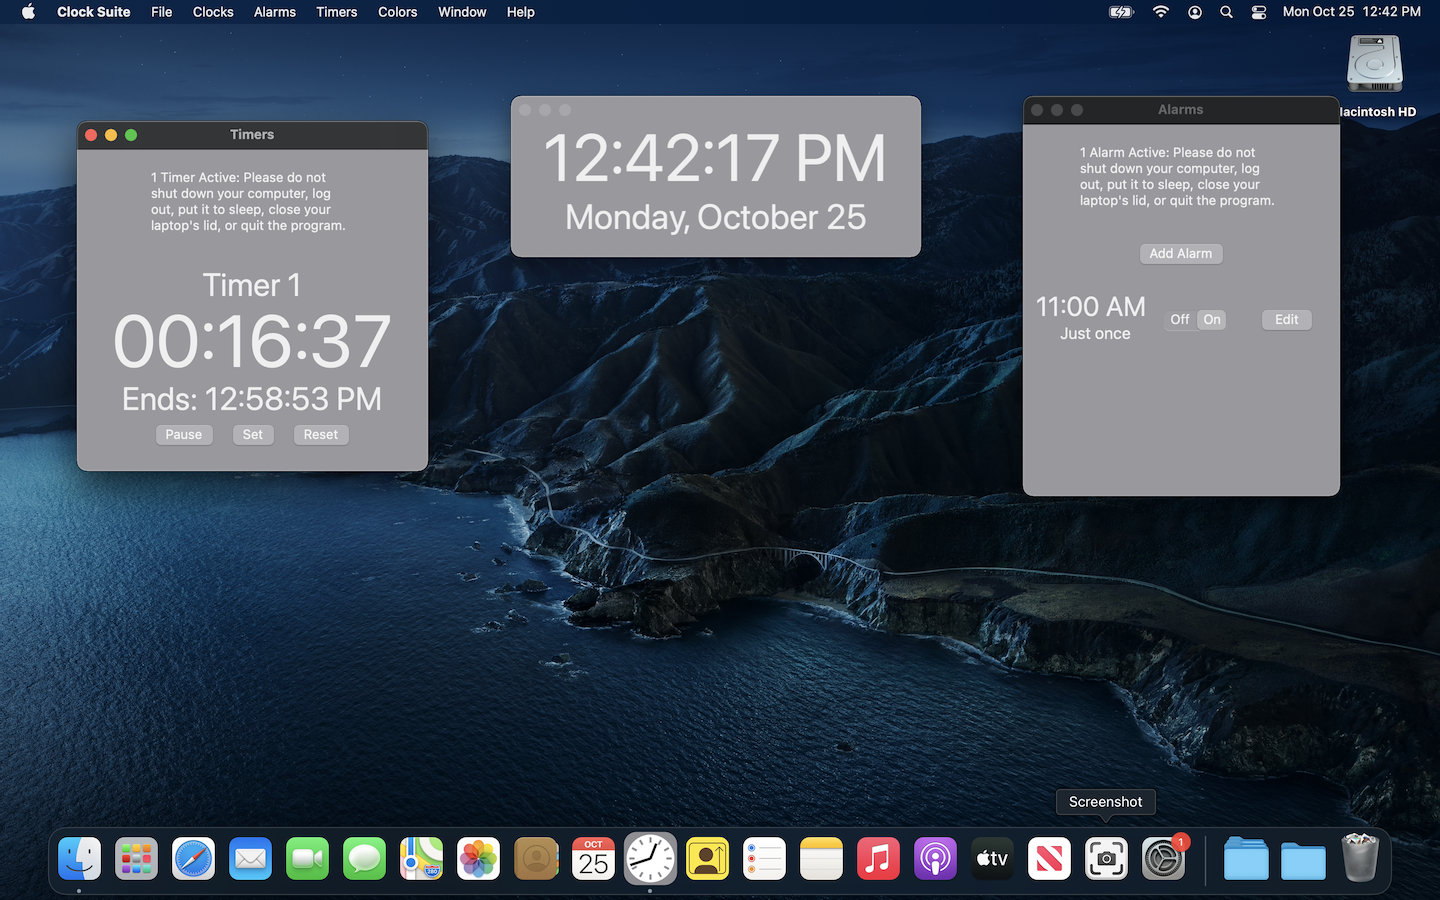
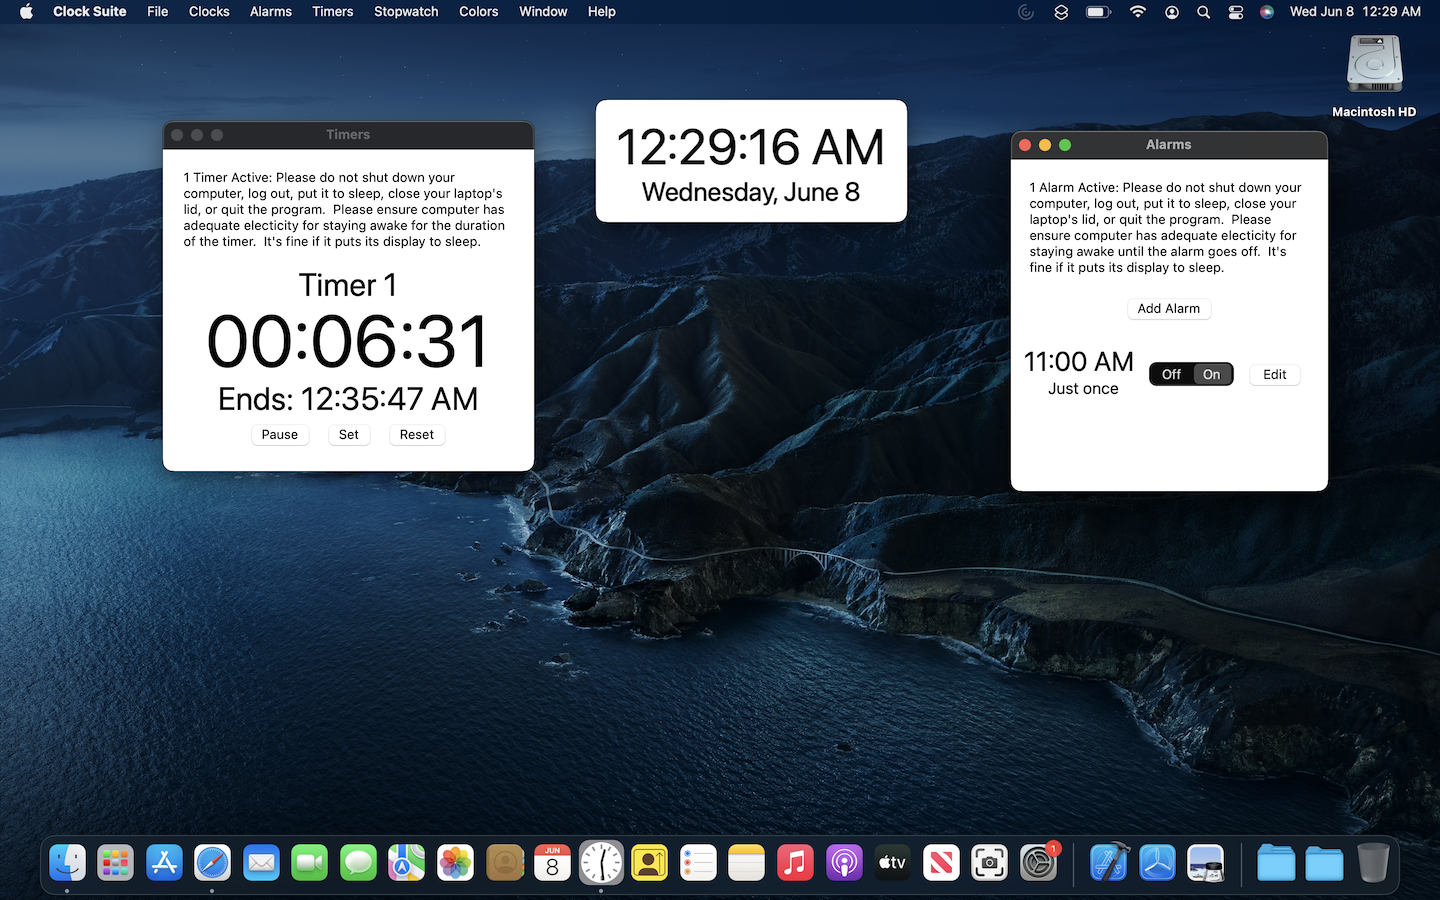
Updated clock images.

diff --git a/src/AppRouter.js b/src/AppRouter.js
@@ -19,6 +19,7 @@ import AppsPage from './pages/AppsPage';
 import ClockSuitePage from './pages/ClockSuitePage';
 import ContactCardsPage from './pages/ContactCardsPage';
 import SpiffyClockPage from './pages/SpiffyClockPage';
+import MathStudentPage from './pages/MathStudentPage'
 import ContactPage from './pages/ContactPage';
 import PrivacyPolicyPage from './pages/PrivacyPolicyPage';
 import ClockSuitePrivacyPolicy from './pages/ClockSuitePrivacyPolicy';
@@ -28,6 +29,8 @@ import ContactCards_FAQ_Page from './pages/ContactCards_FAQ_Page';
 import SpiffyClock_FAQ_Page from './pages/SpiffyClock_FAQ_Page';
 import ContactCardsPrivacyPolicy from './pages/ContactCardsPrivacyPolicy';
 import SpiffyClockPrivacyPolicy from './pages/SpiffyClockPrivacyPolicy';
+import MathStudentPrivacyPolicy from './pages/MathStudentPrivacyPolicy';
+
 
 export default function AppRouter() {
   return (
@@ -40,11 +43,13 @@ export default function AppRouter() {
         <Route path="/clocksuite" exact component={ClockSuitePage} />
         <Route path="/contactcards" exact component={ContactCardsPage} />
         <Route path="/spiffyclock" exact component={SpiffyClockPage} />
+        <Route path="/mathstudent" exact component={MathStudentPage} />
         <Route path="/contact" exact component={ContactPage} />
         <Route path="/privacy" exact component={PrivacyPolicyPage} />
         <Route path="/privacy/clocksuite" exact component={ClockSuitePrivacyPolicy} />
         <Route path="/privacy/contactcards" exact component={ContactCardsPrivacyPolicy} />
-        <Route path="/privacy/spiffyclock" exact component={SpiffyClockPrivacyPolicy} />                                     
+        <Route path="/privacy/spiffyclock" exact component={SpiffyClockPrivacyPolicy} />   
+        <Route path="/privacy/mathstudent" exact component={MathStudentPrivacyPolicy} />                                   
         <Route path="/faq" exact component={FAQ_Page} />
         <Route path="/faq/clocksuite" exact component={ClockSuite_FAQ_Page} />
         <Route path="/faq/contactcards" exact component={ContactCards_FAQ_Page} />

diff --git a/src/components/ClockSuiteComponents/ClockSuiteLightColors.js b/src/components/ClockSuiteComponents/ClockSuiteLightColors.js
@@ -13,7 +13,9 @@ import BlueClockImage from "../../resources/LightModeClockMedium/BlueClockLight.
 import PurpleClockImage from "../../resources/LightModeClockMedium/PurpleClockLight.png";
 import PinkClockImage from "../../resources/LightModeClockMedium/PinkClockLight.png";
 import BrownClockImage from "../../resources/LightModeClockMedium/BrownClockLight.png";
+import BlackClockImage from "../../resources/LightModeClockMedium/BlackClockLight.png";
 import GrayClockImage from "../../resources/LightModeClockMedium/GrayClockLight.png";
+import SystemLightClockImage from "../../resources/LightModeClockMedium/SystemLightClockLight.png";
 import WhiteClockImage from "../../resources/LightModeClockMedium/WhiteClockLight.png";
 
 //import Carousel and its css
@@ -53,7 +55,13 @@ export default function ClockSuiteLightColors() {
             <img src={BrownClockImage} alt="Clock Suite Brown Color Scheme in Light Mode" />
           </div>
           <div>
+            <img src={BlackClockImage} alt="Clock Suite Black Color Scheme in Light Mode" />
+          </div>
+          <div>
             <img src={GrayClockImage} alt="Clock Suite Gray Color Scheme in Light Mode" />
+          </div>
+          <div>
+            <img src={SystemLightClockImage} alt="Clock Suite System Color Scheme in Light Mode" />
           </div>
           <div>
             <img src={WhiteClockImage} alt="Clock Suite White Color Scheme in Light Mode" />

diff --git a/src/pages/MathStudentPrivacyPolicy.js b/src/pages/MathStudentPrivacyPolicy.js
@@ -1,0 +1,28 @@
+//Copyright  © 2020-2021  Matt Roberts
+
+//import React
+import React, { useEffect } from 'react';
+
+//import images
+import MathStudent256 from "../resources/MathStudent256.png";
+
+//import components
+import AppIconWithTitle from '../components/AppIconWithTitle'
+
+export default function ClockSuitePrivacyPolicy() {
+  useEffect(()=>{document.title = "Celeritas Apps | Privacy Policy"})
+  return (
+    <main className={'main-background main-blue'}>
+      <br/>
+      <AppIconWithTitle image={MathStudent256} alt='Math Student App Icon' 
+        name='Math Student Privacy Policy' id='mathstudentprivacypolicy'/>
+      <h2 className='main-text'>
+        Math Student does not collect data from its users, and does not connect to the internet.  
+        Any changes to the privacy policy of Math Student will be reflected here.
+      </h2>
+      <br/>
+      <br/>
+      <br/>
+    </main>
+  );
+}

diff --git a/src/components/MathStudentHeader.js b/src/components/MathStudentHeader.js
@@ -1,0 +1,29 @@
+//Copyright  © 2020-2021  Matt Roberts
+
+//import React
+import React from 'react';
+
+export default function MathStudentHeader() {
+  return (
+    <span>
+      <br/>
+      <h1 className="text-align-center title">
+        Math Student
+      </h1>
+      <hr/>
+      <br/>
+      <h2 className="text-align-center">
+      Math Student is an app for helping you learn math, 
+      for practicing math, and for teaching you math.  
+      It currently has topics "intro to fractions" and 
+      "adding fractions with like denominators" 
+      in the main topic "beginning arithmetic", 
+      in the section "beginning fractions".  It lets you read 
+      about a topic and do sample problems, auto-generated 
+      problems, check your answers, and view a solution to 
+      the problem you are working on as relevant.
+      </h2>
+      <br />
+    </span>
+  );
+}

diff --git a/src/pages/MathStudentPage.js b/src/pages/MathStudentPage.js
@@ -1,0 +1,21 @@
+//Copyright  © 2020-2021  Matt Roberts
+
+//import React
+import React, { useEffect } from 'react';
+
+//import components
+import MathStudentHeader from "../components/MathStudentHeader";
+
+
+export default function ClockSuitePage() {
+  useEffect(()=>{document.title = "Clock Suite"})
+  return (
+    <main>
+      <div className={'main-background main-blue'}>
+        <div className="main-margin">
+          <MathStudentHeader/>
+        </div>
+      </div>
+    </main>
+  );
+}
